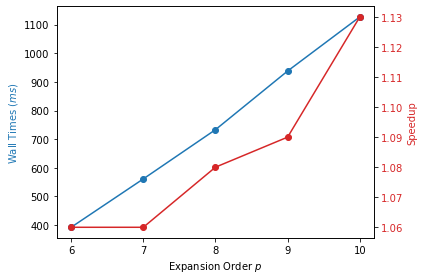
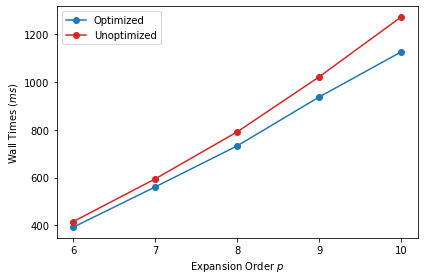
Make graph cleraer

diff --git a/article/pyexafmm.tex b/article/pyexafmm.tex
@@ -250,13 +250,13 @@ In order to achieve an appropriate load balance such that the cost of creating a
 
 The P2P, P2M, P2L, M2P, L2P and near field operators all rely on the P2P operator and are parallelized over their targets, the leaf nodes.
 
-For the L2P operator we encourage cache locality for the P2P step, and keep the data structures passed to Numba as simple as possible, by allocating 1D vectors for the source positions, target positions and the source expansion coefficients, such that all the data required to apply an operator to single target node is adjacent in memory. By storing a vector of `index pointers', that bookend the data corresponding to each target in these 1D vectors, we can form parallel for loops over each target to compute the P2P that encourages cache-locality in the CPU. In order to to this, we have to first iterate through the target nodes and their interaction lists if relevant, and lookup their associated data to fill the vectors cache local vectors. Figure (\ref{fig:l2p_cache}) shows the speedup achieved with this strategy increases with the number of calculations in each parallel thread.
+For the L2P operator we encourage cache locality for the P2P step, and keep the data structures passed to Numba as simple as possible, by allocating 1D vectors for the source positions, target positions and the source expansion coefficients, such that all the data required to apply an operator to single target node is adjacent in memory. By storing a vector of `index pointers', that bookend the data corresponding to each target in these 1D vectors, we can form parallel for loops over each target to compute the P2P that encourages cache-locality in the CPU. In order to to this, we have to first iterate through the target nodes and their interaction lists if relevant, and lookup their associated data to fill the vectors cache local vectors. Figure (\ref{fig:l2p_cache}) shows the speedup achieved with this strategy increases moderately with the number of calculations in each parallel thread.
 
 
  % Smaller figure
 \begin{figure}
 	\centerline{\includegraphics[width=8cm]{figures/speedup.png}}
-    \caption{Max speedup of L2P using cache local strategy compared to a naive parallel iteration over the octree's leaves. Computed over seven trials over $32768$ leaves, with $n_{crit}=150$.}
+    \caption{Minimum runtime of cache optimized L2P compared to a naive parallel iteration over leaves. Computed over seven trials over $32768$ leaves, with $n_{crit}=150$.}
 	\label{fig:l2p_cache}
 \end{figure}
 
